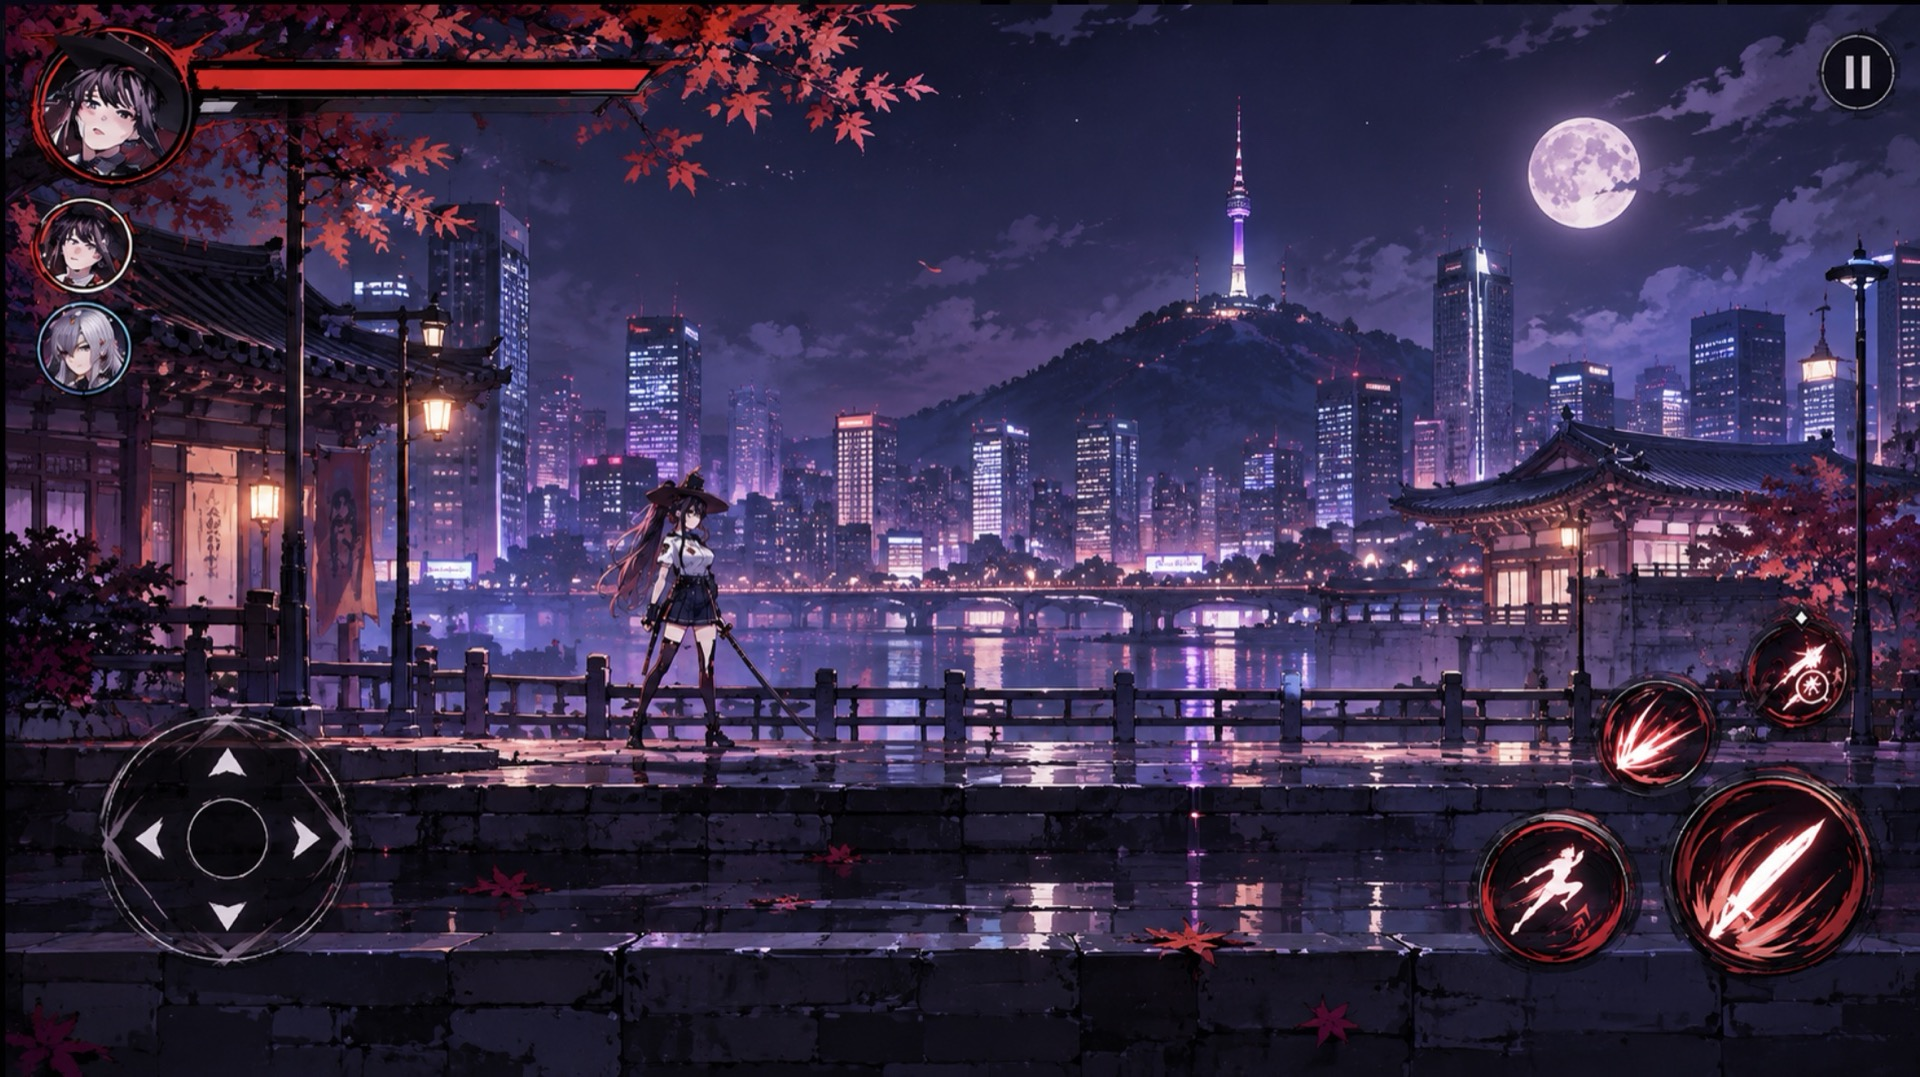
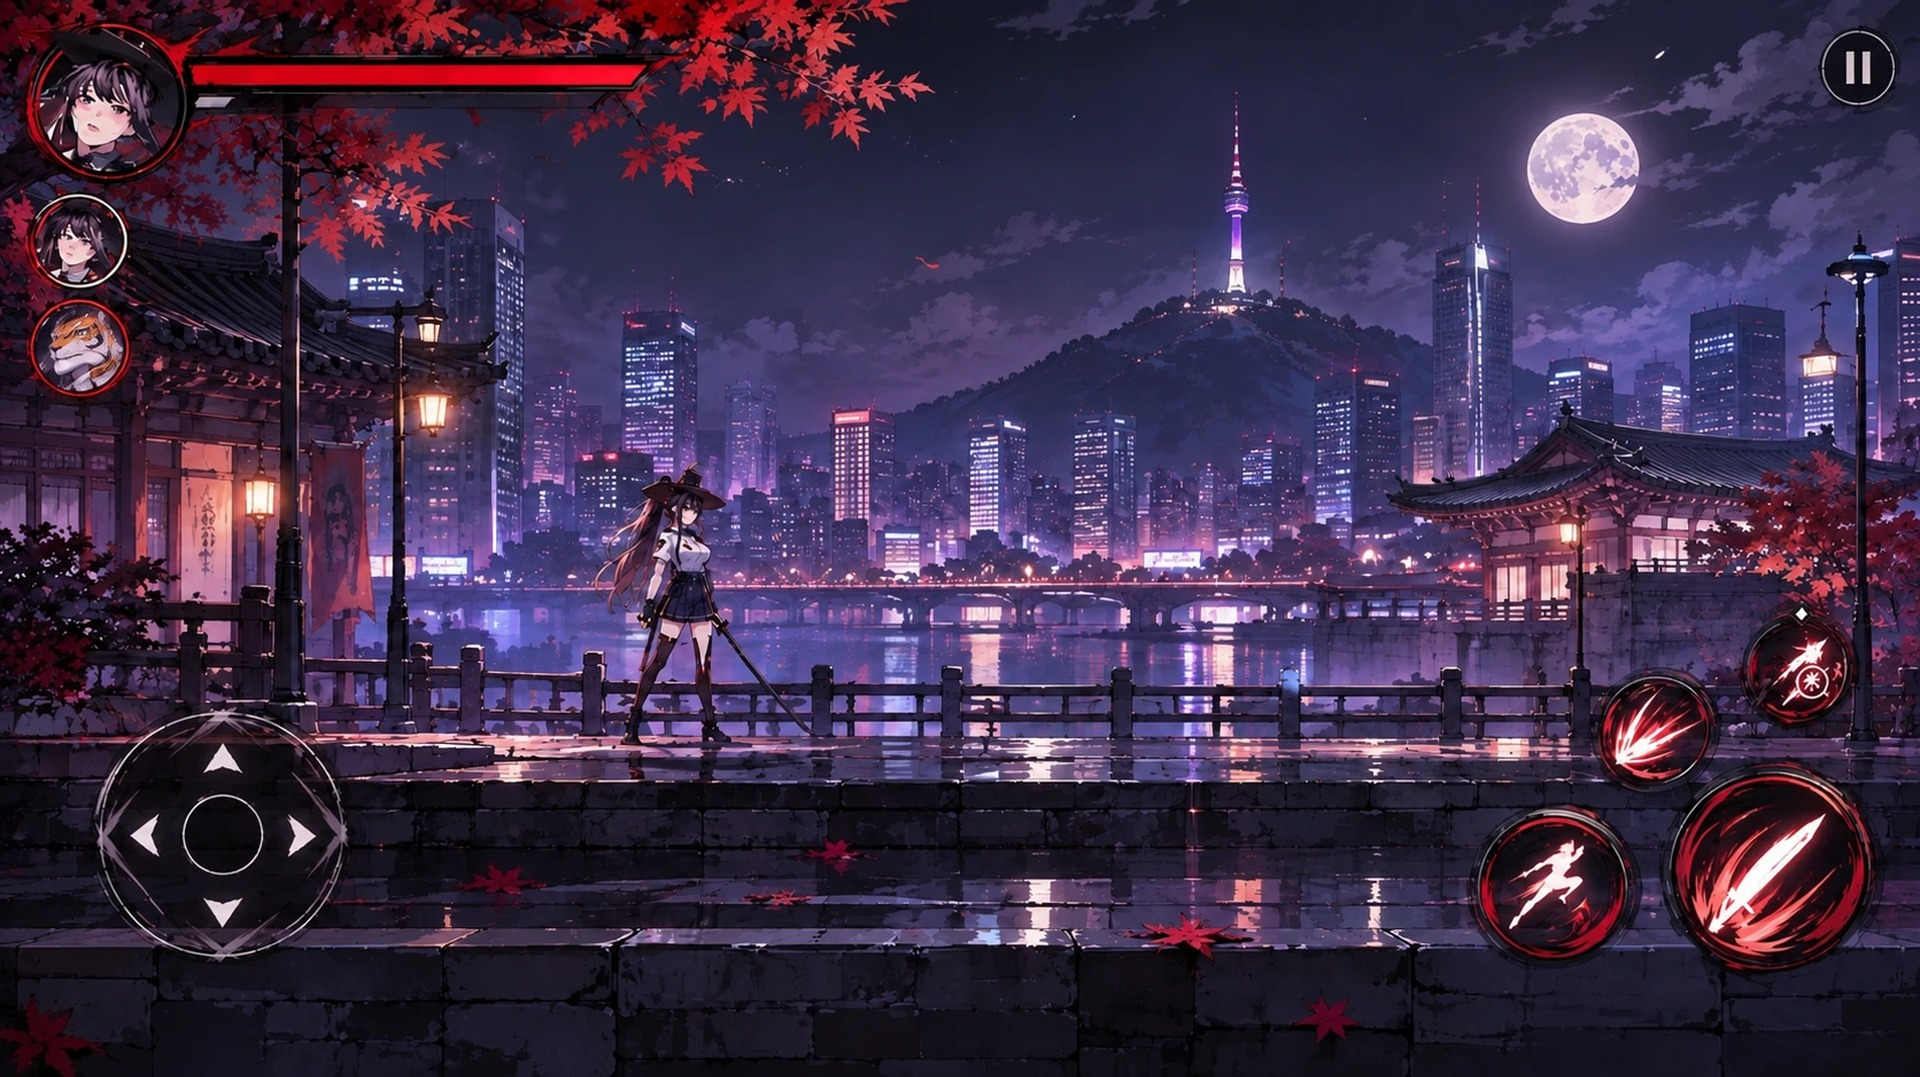
v12: 전투 배경 그림 고화질본 교체 · 출전 편성 배지 선봉/후봉

diff --git a/github-deploy/scenes.js b/github-deploy/scenes.js
@@ -540,7 +540,7 @@ class PartyScene {
     neonButton(c, 8, 6, 120, 40, '◀ 월드맵', { size: 14 });
     c.textAlign = 'left'; c.textBaseline = 'middle';
     c.font = `800 22px ${SERIF}`; outlinedText(c, '출전 편성 — 2인을 선택하세요', 148, 27, '#ffe0ee', '#000', 4);
-    c.font = `600 12px ${SANS}`; outlinedText(c, '먼저 고른 캐릭터가 선봉으로 출전합니다 · 추천: 이동민(요기 0% — 간장·막야에 정상 타격)', 148, 50, '#d8c0d0', '#000', 3);
+    c.font = `600 12px ${SANS}`; outlinedText(c, '먼저 고른 캐릭터가 선봉, 다음이 후봉(교대 대기)입니다 · 추천: 이동민(요기 0% — 간장·막야에 정상 타격)', 148, 50, '#d8c0d0', '#000', 3);
     PLAYABLE.forEach((k, i) => {
       const r = this.cardRect(i), d = CHAR_DATA[k], si = this.sel.indexOf(k), on = si >= 0, cur = i === this.cursor;
       c.save();
@@ -559,7 +559,7 @@ class PartyScene {
       c.fillText(k === 'hocheol' ? '연기 술법 절반 흡수 · 주먹은 정상 타격' : k === 'simcheong' ? '용의 기운을 모아 용 형태 변신 · 용기 기술 절반 흡수' : k === 'dongmin' ? '요기 0% — 정상 타격 (추천)' : '원거리 부채 바람 — 정상 타격', r.x + 12, r.y + r.h - 22);
       if (on) {
         c.fillStyle = '#c8203e'; circle(c, r.x + r.w - 22, r.y + 22, 16); c.fill(); c.strokeStyle = '#fff'; c.lineWidth = 2; c.stroke();
-        c.fillStyle = '#fff'; c.font = `900 15px ${SANS}`; c.textAlign = 'center'; c.fillText(si === 0 ? '선봉' : '2', r.x + r.w - 22, r.y + 23);
+        c.fillStyle = '#fff'; c.font = `900 15px ${SANS}`; c.textAlign = 'center'; c.fillText(si === 0 ? '선봉' : '후봉', r.x + r.w - 22, r.y + 23);
       }
       c.restore();
     });

diff --git a/github-deploy/index.html b/github-deploy/index.html
@@ -14,12 +14,12 @@
 <body>
 <canvas id="game"></canvas>
 <div id="rotate">📱 가로 화면으로 돌려 주세요</div>
-<script src="core.js?v=11"></script>
-<script src="music.js?v=11"></script>
-<script src="sprite_meta.js?v=11"></script>
-<script src="assets.js?v=11"></script>
-<script src="art.js?v=11"></script>
-<script src="battle.js?v=11"></script>
-<script src="scenes.js?v=11"></script>
+<script src="core.js?v=12"></script>
+<script src="music.js?v=12"></script>
+<script src="sprite_meta.js?v=12"></script>
+<script src="assets.js?v=12"></script>
+<script src="art.js?v=12"></script>
+<script src="battle.js?v=12"></script>
+<script src="scenes.js?v=12"></script>
 </body>
 </html>

diff --git a/github-deploy/assets.js b/github-deploy/assets.js
@@ -191,7 +191,7 @@ const Assets = {
       im.onerror = () => { this.failed.push(src); done(); };
       im.src = src; store[key] = im;
     };
-    for (const [k, f] of Object.entries(IMG_FILES)) add(this.imgs, k, f + '?v=2');
+    for (const [k, f] of Object.entries(IMG_FILES)) add(this.imgs, k, f + '?v=3');
     for (const k of Object.keys(SPRITES)) add(this.sprites, k, k + '.png?v=5');
     for (const k of Object.keys(BUSTS)) add(this.busts, k, k + '.png?v=5');
     for (const k of VFX) add(this.vfx, k, 'vfx_' + k + '.webp?v=4');
